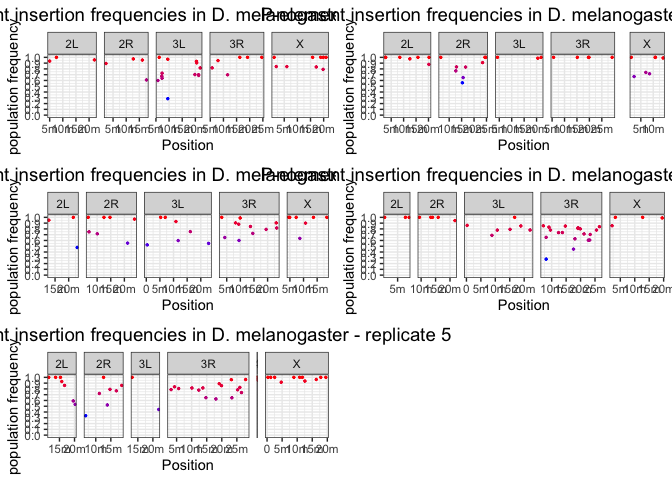
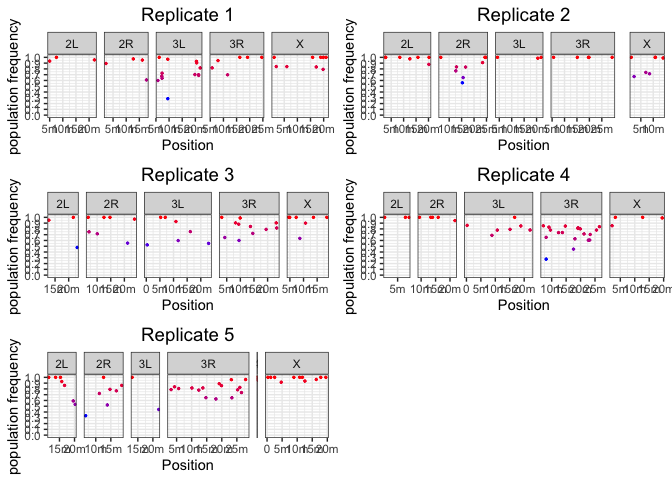
Fixed merge issue

Changed region(s): [[0.0, 0.0, 1.0, 0.0625], [0.0, 0.3438, 1.0, 0.4062], [0.0, 0.6562, 0.6875, 0.7188]]

diff --git a/dna/5-BGI.md b/dna/5-BGI.md
@@ -1,7 +1,7 @@
 5 - BGI data analysis
 ================
 Matthew Beaumont
-2023-09-06
+2024-05-31
 
 After sending 5 of the most inbred populations, plus the 2 d.mel lines
 used for the original PALs, to BGI instead of VBCF, we aimed to gain a
@@ -117,7 +117,7 @@ for (i in 1:5) {
                        breaks = seq(0, 1, by = 0.1)) +
     scale_color_gradient(low = "blue", high = "red") +
     theme(legend.position = "none", plot.title = element_text(hjust = 0.5, size = 14)) +
-    labs(title = paste("P-element insertion frequencies in D. melanogaster - replicate", i))
+    labs(title = paste("Replicate", i))
   
   plots[[i]] <- plot
 }
@@ -192,9 +192,9 @@ fixation. This highlights the index-hopping issue suffered with the
 previous sequencing dataset.
 
 Unfortunately, the two lines used for the original PAL generation
-(replicates 1 & 5 above), were the two lines with the lowest amount of
-fixation of all the lines assessed. This led us to restart the PAL
-lines, this time using the two best lines we identified above (d.mel
+(d. mel replicates 1 & 5 above), were the two lines with the lowest
+amount of fixation of all the lines assessed. This led us to restart the
+PAL lines, this time using the two best lines we identified above (d.mel
 replicate 2 and d.sim replicate 2).
 
 ## RIdeogram

diff --git a/dna/3-PopTE2.md b/dna/3-PopTE2.md
@@ -1,7 +1,7 @@
 3 - PopTE2
 ================
 Matthew Beaumont
-2023-09-06
+2024-05-31
 
 ## PPileup generation
 
